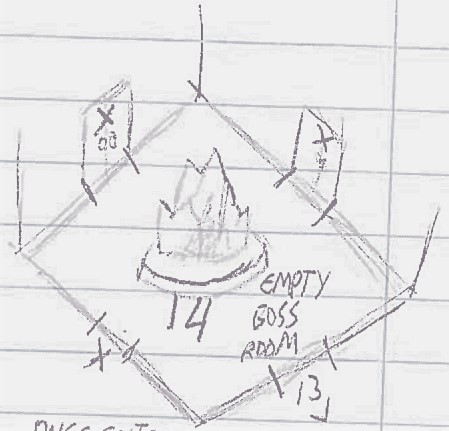
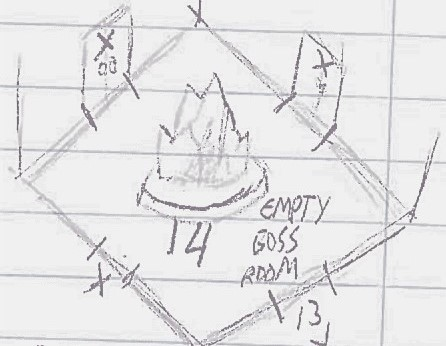
schetsen afbeeldingen vervangen

Changed region(s): [[0.0, 0.0, 1.0, 1.0], [0.8744, 0.3179, 0.9036, 0.3468]]

diff --git a/index.html b/index.html
@@ -157,7 +157,7 @@
         <div class="card labyrinth">
             <div class="card-content">
                 <p class="has-text-grey-dark">
-                    Hieronder kunt u schetsen zien die ik gemaakt heb om game concepten uit te werken.<br>
+                    Hieronder kunt u schetsen zien die ik gemaakt heb om als game concepten uit te werken.<br>
                     Als u op de knop onder de foto drukt kunt u meer schetsen en informatie hierover zien. </p>
                 </p>
             </div>
@@ -173,7 +173,7 @@
                     </div>
                     <div class="card-content">
                         <div class="imageWrapper project_photo">
-                            <img src="schetsen/labyrinth.png" alt="site foto" />
+                            <img src="schetsen/labMain.jpg" alt="site foto" />
                             <i class="fas fa-search-plus"></i>
                         </div>
                         <!-- <img id="labyrinth_gif" src="Labyrinth.jpg" alt="Isaac GIF" class="project_photo"> -->
@@ -199,17 +199,25 @@
                                         <p>
                                             Dit is een concept voor een 3D puzzle/adventure game ala de Zelda games.<br><br>
                                             Hierin is het scenario dat de speler dit labyrinth binnen gaat om de
-                                            eindbaas te verslaan.<br><br>
-                                            De layout staat vast maar de logica daarvan is niet meteen duidelijk.
-                                            Eerst kan de speler gewoon naar binnen lopen, maar op een gegeven moment
-                                            als de speler terug probeerd te gaan merk hij dat dat niet meer kan.
-                                            Vanaf dat punt moet de spelers puzzles in de induviduele kamers oplossen.<br>
-                                            Als de puzzle opgelost is of interactie mee is gehad dan veranderd dat
-                                            welke kames er aan de vier uitgangen gelinkt zijn.<br><br>
-                                            In het einde heeft de speler alles kamers verkent en is de eindbaas
-                                            ontwaken. nu vallen alle muren weg en moet de speler
-                                            alle eerder gebruikte puzzels gebruiken om de baas te verslaan.
-
+                                            eindbaas te verslaan voordat hij uitzichzelf ontwaakt.<br>
+                                            <br>
+                                            Bij de start van het spel kan de speler maar een richting op door de kamers heen.
+                                            hierbij eindigt de speler in de final boss room. Echter zit de boss in een kristal opgesloten. 
+                                            Zodra de speler het kristal nadert sluit de ingang zichzelf af en ontwaakt de dungeon.<br>
+                                            <img src="schetsen/labStart.jpg" alt="site foto" /><br><br>
+                                            Ingame kan de speler altijd een kaart zijn van waar hij zich in de dungeon bevind. 
+                                            De room layout ziet eruit als een grid van 5 bij 5 kamers.<br>
+                                            <img src="schetsen/labLayout.jpg" alt="site foto" /><br><br>
+                                            Maar er is een twist, de kamers sluiten niet op een logische manier aan elkaar aan. 
+                                            Bijvoorbeeld: je zou verwachten dat als je van kamer 7 naar rechts zou gaan dat je 
+                                            in kamer 8 terecht komt. Maar eigenlijk kom je dan in kamer 20 terecht.<br>
+                                            Ook kan je bijvoorbeeld in een kamer maar twee uitgangen hebben al zou het er normaal 4 moeten hebben. 
+                                            Of dat je een kamer uitloopt om aan de andere kant van die kamer weer binnen komen te lopen.<br>
+                                            <img src="schetsen/labLogic.jpg" alt="site foto" /><br><br>
+                                            Misschien zijn sommige kamers ook wel groter zijn wat ze lijken.<br>
+                                            <img src="schetsen/labMystery.jpg" alt="site foto" /><br><br>
+                                            Om de game te winnen moet je de puzzels in de kamers oplossen zodat de kamers uiteindelijk op hun juiste positie eindigen. 
+                                            Hierna kan je de boss ontwaken en hem verslaan.
                                         </p>
                                     </div>
                                 </div>
@@ -225,7 +233,7 @@
                 <div class="modal photo" id="labyrinth_enlarged">
                     <div class="modal-background"></div>
                     <div class="modal-content">
-                        <img src="schetsen/labyrinth.png" alt="foto a" class="project_photo">
+                        <img src="schetsen/labFull.jpg" alt="foto a" class="project_photo">
                     </div>
                     <button class="modal-close is-large" aria-label="close"></button>
                 </div>
@@ -235,12 +243,12 @@
                 <div class="card lucas">
                     <div class="card-header">
                         <p class="card-header-title has-text-centered">
-                            mechanic
+                            Dualpurpose mechanic shooter
                         </p>
                     </div>
                     <div class="card-content">
                         <div class="imageWrapper project_photo">
-                            <img src="schetsen/tank3.png" alt="site foto" />
+                            <img src="schetsen/tankMain.jpg" alt="site foto" />
                             <i class="fas fa-search-plus"></i>
                         </div>
                         <p class="has-text-grey-dark">
@@ -261,15 +269,25 @@
                                 <div class="card column">
                                     <div class="card-content">
                                         <p>
-                                            Als je schade krijgt dan heeft dat effect op welk wapen je kan gebruiken.
-                                            Die wapens kunnen dan kogels afvuren in verschillende behaviours.
-                                            Daardoor kan je situaties krijgen waarin je liever expres schade op wil lopen om een
-                                            beter waper te hebben voor dat moment.<br><br>
-                                            Deze mechanic wil ik gebruiken voor een tank achtige game.
-            
-                                            <img src="schetsen/tank4.png" />
-                                            <img src="schetsen/tank1.png" />
-                                            <img src="schetsen/tank2.png" />
+                                            Dit is een concept voor een topdown shooter game.<br><br>
+                                            Het scenario hierin is dat je in een tank rijdt en alle vijanden moet verslaan met als thema gokken.<br><br>
+                                            In deze game wil ik graag veel met dualpurpos mechanics werken. Dat betekend dat een actie meerder functies heeft.<br>
+                                            Bijvoorbeeld dat je healthbar en je geselecteerde wapen dezelfde meter delen.<br>
+                                            <img src="schetsen/tankExample.jpg" alt="site foto" /><br><br>
+                                            De verschillende wapens die je bij je draagt hebben allemaal een ander schiet gedrag of effect.
+                                            Hierdoor is het in sommige situaties verstandiger om opzettelijk schade te nemen zodat je naar een 
+                                            wapen overgaat dat effectiever is om de huidige vijand te verslaan.<br><br>
+                                            Ook vind ik het een leuk idee om geld ook als ammunitie te gebruiken. Er kunnen mogelijk een paar 
+                                            soorten geld zijn die je wel gecontroleerd af kan wisselen. Deze zouden dan per kogel 
+                                            meer schade doen maar ook een kleiner bereik hebben.<br>
+                                            <img src="schetsen/tankAmmo.jpg" alt="site foto" /><br><br>
+                                            Verder kan de speler ook naar andere niveaus van de arena reizen. Hieronder is een mockup van het gamescherm.<br>
+                                            <img src="schetsen/tankGamescreen.jpg" alt="site foto" /><br>
+                                            <img src="schetsen/tankUIlayer.jpg" alt="site foto" /><br><br>
+                                            De controles had ik origineel uitgedacht voor een super Nintendo controller. 
+                                            Maar ik heb ook een versie gemaakt die compatibel is met een telefoon scherm.<br>
+                                            <img src="schetsen/tankController.jpg" alt="site foto" /><br>
+                                            <img src="schetsen/tankButtonCollision.jpg" alt="site foto" />
                                         </p>
                                     </div>
                                 </div>
@@ -284,7 +302,7 @@
                 <div class="modal photo" id="lucas_enlarged">
                     <div class="modal-background"></div>
                     <div class="modal-content">
-                        <img src="schetsen/tank3.png" alt="foto a" class="project_photo">
+                        <img src="schetsen/tankGeneralSummary.jpg" alt="foto a" class="project_photo">
                     </div>
                     <button class="modal-close is-large" aria-label="close"></button>
                 </div>
@@ -299,12 +317,11 @@
                     </div>
                     <div class="card-content">
                         <div class="imageWrapper project_photo">
-                            <img src="schetsen/pukwudgie1.png" alt="site foto" />
+                            <img src="schetsen/puk5.jpg" alt="site foto" />
                             <i class="fas fa-search-plus"></i>
                         </div>
                         <p class="has-text-grey-dark">
                             <button class="button is-fullwidth">Meer informatie </button>
-                            <!-- Verken een doolhof waarin de kamers onnatuurlijk op elkaar aansluiten. -->
                         </p>
                     </div>
                 </div>
@@ -316,19 +333,36 @@
                             <button class="delete"></button>
                         </header>
                         <section class="modal-card-body">
-                            <p>
-                                Deze schetsen had ik oorspronkelijk voor een van mijn projecten gemaakt.
-                                Maar dat project was in concept al zo erg veranderd tegen de tijd dat wij daarmee
-                                gestart waren.
-                                Dat dit nu praktisch een ander concept op zichzelf is.<br><br>
-                                Desalnietemin zou ik toch een keer opnieuw een 3d puzzle platformer willen maken.<br><br>
-                                Zie hieronder de rest van de schetsen.
 
-                                <img src="schetsen/pukwudgie2.png" />
-                                <img src="schetsen/pukwudgie3.png" />
-                                <img src="schetsen/pukwudgie4.png" />
-                                <img src="schetsen/pukwudgie5.png" />
-                            </p>
+                            
+                                <div class="columns">
+                                        <div class="card column">
+                                            <div class="card-content">
+                                                    <p>
+                                                        Dit was een concept voor het project Mythe waar ik met een groep aan moest werken. 
+                                                        Echter was dit concept afgewezen. Maar ik denk nog steeds dat ik dit nog steeds in een leuke game kan veranderen.<br><br>
+                                                        Het scenario was dat een meisje ontvoerd werd door rare wezens en dat ze van hun moest ontsnappen
+                                                         en een weg terug naar huis moest weten te vinden.<br><rbr>
+                                                        De bijgevoegde tekeningen laten level ontwerpen zien die ik gemaakt had.<br>
+                                                        Ik geen schets voor de speler zelf gemaakt aangezien dat niet nodig was voor de level ontwerpen.<br>
+                                                        Hieronder staat een legenda van wat sommige tekens betekenen<br>
+                                                        <img src="schetsen/pukLegenda.jpg" alt="site foto" /><br><br>
+                                                        Hieronder heb ik een aantal van die level schetsen staan om de interesantere puzzels te laten zien.<br>
+                                                        <img src="schetsen/puk0.jpg" alt="site foto" /><br>
+                                                        <img src="schetsen/puk1.jpg" alt="site foto" /><br>
+                                                        <img src="schetsen/puk2.jpg" alt="site foto" /><br>
+                                                        <img src="schetsen/puk3.jpg" alt="site foto" /><br>
+                                                        <img src="schetsen/puk4.jpg" alt="site foto" /><br>
+                                                        <img src="schetsen/puk5.jpg" alt="site foto" /><br>
+                                                        <img src="schetsen/puk6.jpg" alt="site foto" /><br>
+                                                        <img src="schetsen/puk7.jpg" alt="site foto" /><br>
+                                                        <img src="schetsen/puk9.jpg" alt="site foto" /><br>
+                                                        <img src="schetsen/puk13.jpg" alt="site foto" /><br>
+                                                    </p>
+                                            </div>
+                                        </div>
+                                    </div>
+
                         </section>
                         <footer class="modal-card-foot"> <button class="close button">Sluiten</button>
                         </footer>
@@ -338,7 +372,7 @@
                 <div class="modal photo" id="pukwudgie_ontwerp_enlarged">
                     <div class="modal-background"></div>
                     <div class="modal-content">
-                        <img src="schetsen/pukwudgie1.png" alt="foto a" class="project_photo">
+                        <img src="schetsen/puk5.jpg" alt="foto a" class="project_photo">
                     </div>
                     <button class="modal-close is-large" aria-label="close"></button>
                 </div>
@@ -422,6 +456,10 @@
                                             <img class="is-background" src="thumbnails/hexgridThumb.PNG" />
                                             <div class="title">En dan eindig je met dit effect.</div>
                                         </div>
+                                        <div class='carousel-item has-background is-active'>
+                                                <img class="is-background" src="schetsen/hex.jpg" />
+                                                <div class="title">Dit is een schets van hoe ik tewerk wou gaan.</div>
+                                            </div>
                                     </div>
                                     <div class="carousel-navigation is-overlay">
                                         <div class="carousel-nav-left">
@@ -679,6 +717,10 @@
                                             <div class="title">Nu word het inventory opnieuw gecheckt met meer
                                                 collectibles</div>
                                         </div>
+                                        <div class='carousel-item has-background is-active'>
+                                            <img class="is-background" src="schetsen/inventoryMenuOptions.jpg" />
+                                            <div class="title">Een schets van hoe ik het navigeren er uit wou laten zien</div>
+                                        </div>
 
 
                                     </div>
@@ -691,6 +733,8 @@
                                         </div>
                                     </div>
                                 </div>
+
+                                
 
                                 <div class="columns">
                                     <div class="card column">
